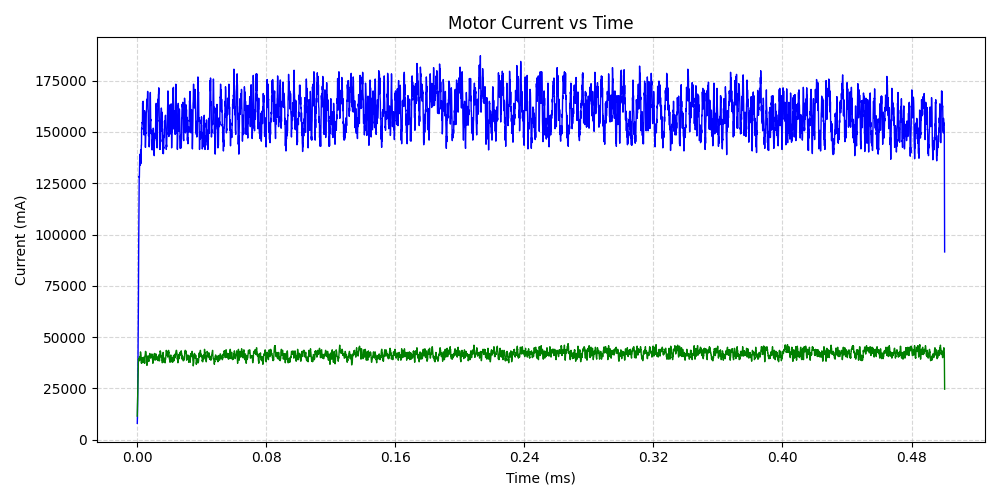
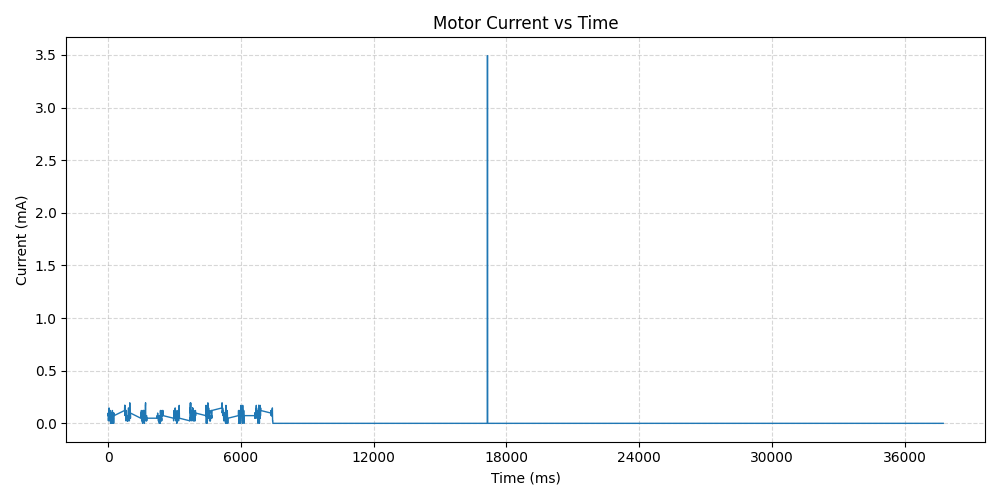
Nathan's files

diff --git a/MotorStallTestSetup/plotValues_Nathan.py b/MotorStallTestSetup/plotValues_Nathan.py
@@ -1,0 +1,57 @@
+import matplotlib.pyplot as plt
+import matplotlib.ticker as ticker
+import numpy as np
+import csv
+import os
+
+filename = os.path.dirname(__file__) + '\\data\\sample_data.csv'
+
+x_data, y_data = [], []
+
+with open(filename, 'r', newline='') as f:
+    reader = csv.reader(f)
+    next(reader)  # skip header
+
+    for row in reader:
+        try:
+            t = float(row[0])      # time (µs or ms)
+            current = float(row[1]) * 1000  # convert to mA
+
+            x_data.append(t)
+            y_data.append(current)
+
+        except:
+            pass
+
+# --- Normalize time (start from 0, convert to ms if needed) ---
+x_data = np.array(x_data)
+x_data = (x_data - x_data[0]) / 1000.0  # µs → ms
+
+y_data = np.array(y_data)
+
+# --- Downsample (VERY IMPORTANT for readability) ---
+DOWNSAMPLE = 5   # change to 5–50 depending on density
+x_data = x_data[::DOWNSAMPLE]
+y_data = y_data[::DOWNSAMPLE]
+
+# --- smooth signal (moving average) ---
+WINDOW = 5
+y_smooth = np.convolve(y_data, np.ones(WINDOW)/WINDOW, mode='same')
+
+# --- Plot ---
+fig, ax = plt.subplots(figsize=(10, 5))
+
+ax.plot(x_data, y_smooth, linewidth=1)
+
+ax.set_xlabel("Time (ms)")
+ax.set_ylabel("Current (mA)")
+ax.set_title("Motor Current vs Time")
+
+ax.xaxis.set_major_locator(ticker.MaxNLocator(8))
+ax.yaxis.set_major_locator(ticker.MaxNLocator(8))
+
+ax.grid(True, linestyle='--', alpha=0.5)
+
+plt.tight_layout()
+plt.savefig(os.path.join(os.path.dirname(__file__), 'plots', 'plot.png'))
+plt.show()